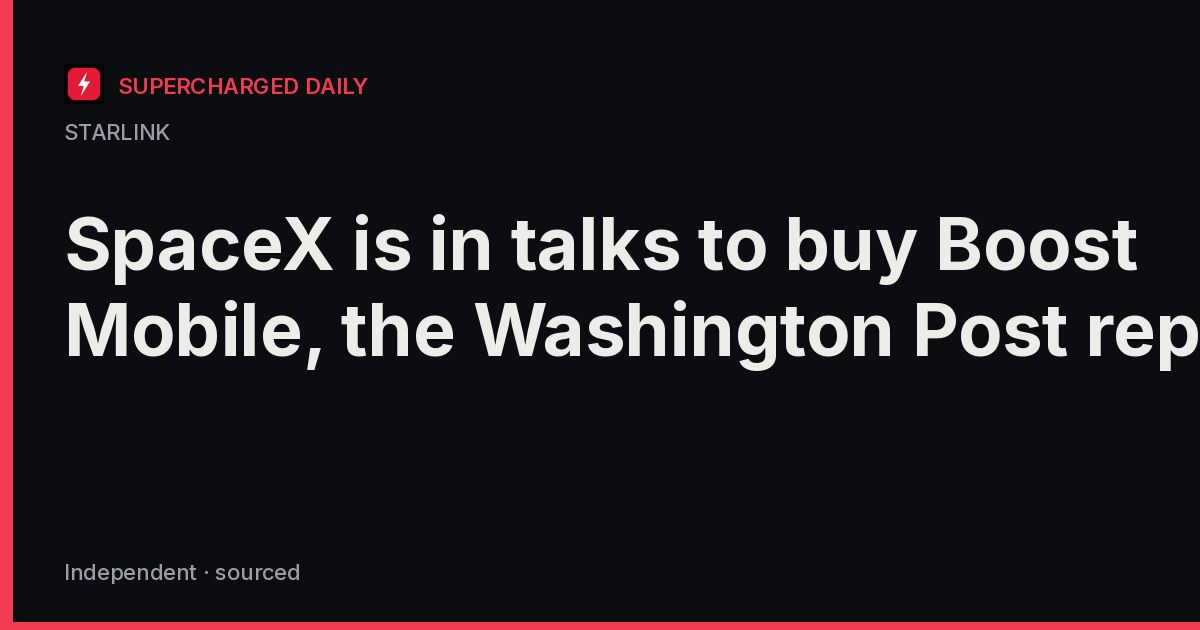
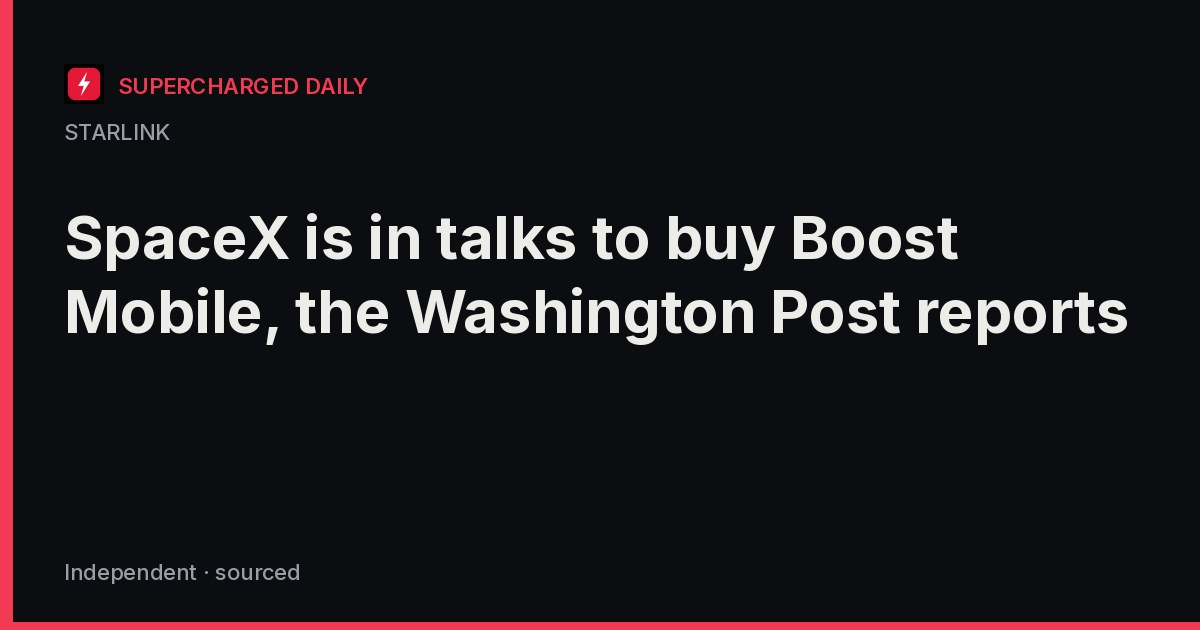
Social cards: wrap titles at the size they are drawn
Two-line titles were wrapped at 60px and then drawn at 72px, so the
Boost Mobile card ran off the edge and lost "the Washington Post
reports". Wrap at 72px first and fall back to 60px for longer titles.

Claude-Session: https://claude.ai/code/session_01CyAz74kttZ4YNjojC9Ss6K

Changed region(s): [[0.0308, 0.3317, 1.0, 0.6032]]

diff --git a/scripts/generate-og.py b/scripts/generate-og.py
@@ -125,9 +125,12 @@ def article_cards():
 
 def draw_article(kicker, title):
     from PIL import ImageDraw
-    big = font("Inter-Bold.ttf", 60)
-    lines = wrap(title, big, W - 128)
-    return draw_card(kicker, "\n".join(lines), big_size=60 if len(lines) > 2 else 72, step=74 if len(lines) > 2 else 86)
+    # Wrap at the size we draw at: try 72px first and fall back to 60px only for titles that need 3+ lines.
+    lines = wrap(title, font("Inter-Bold.ttf", 72), W - 128)
+    if len(lines) <= 2:
+        return draw_card(kicker, "\n".join(lines), big_size=72, step=86)
+    lines = wrap(title, font("Inter-Bold.ttf", 60), W - 128)
+    return draw_card(kicker, "\n".join(lines), big_size=60, step=74)
 
 
 def run(force=False):
